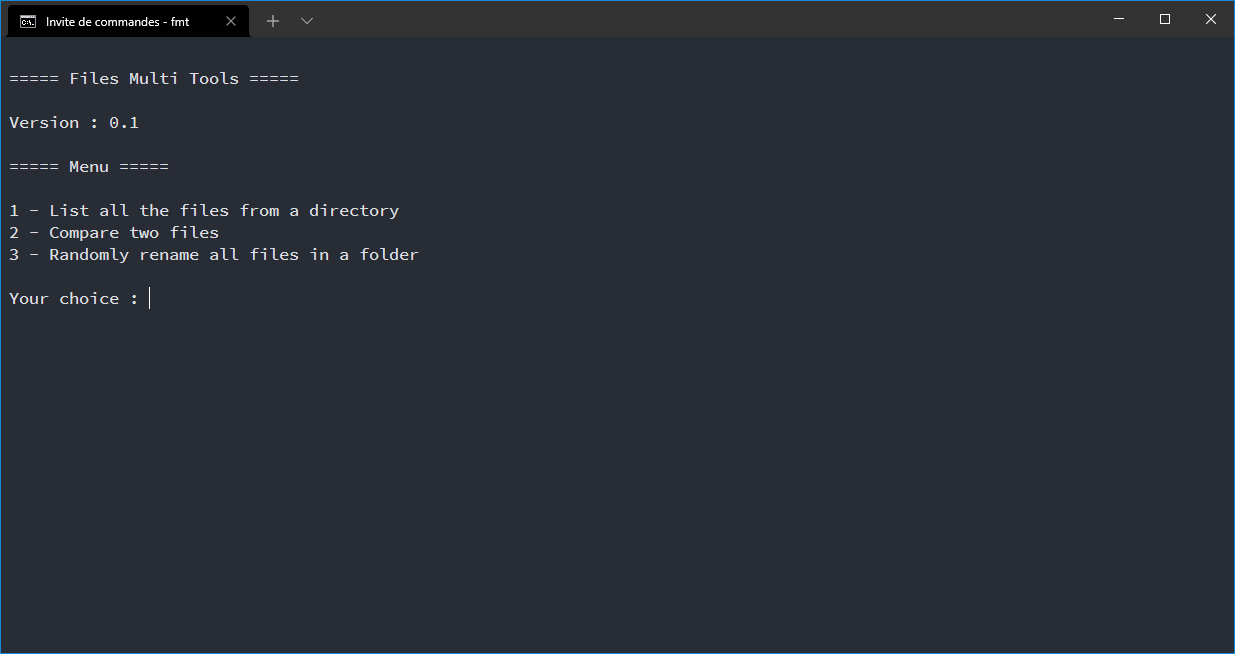
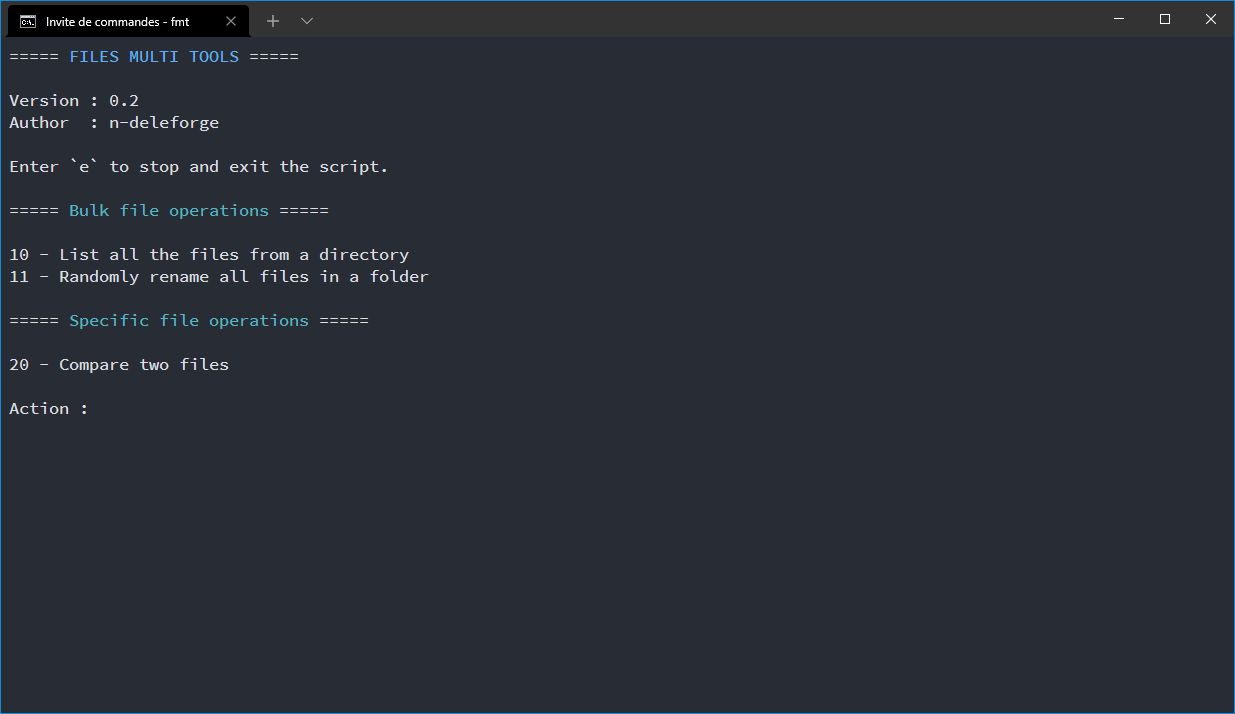
new screenshot + english as default lang

Changed region(s): [[0.0, 0.0, 0.3385, 0.3976], [0.0, 0.4281, 0.2769, 0.5199], [0.0, 0.5505, 0.0615, 0.581]]

diff --git a/inc/config.php b/inc/config.php
@@ -4,7 +4,7 @@
 // ==== CONSTANTS
 
 define("VERSION", 0.2);
-define("LANG", $french);
+define("LANG", $english);
 
 // ========================
 // ==== CATEGORIES AND APPS
